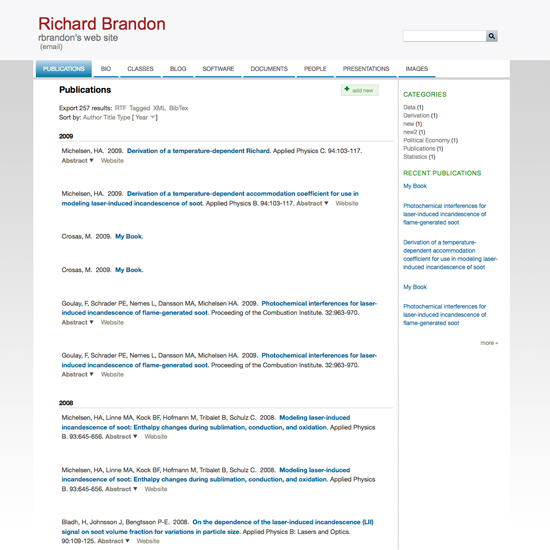
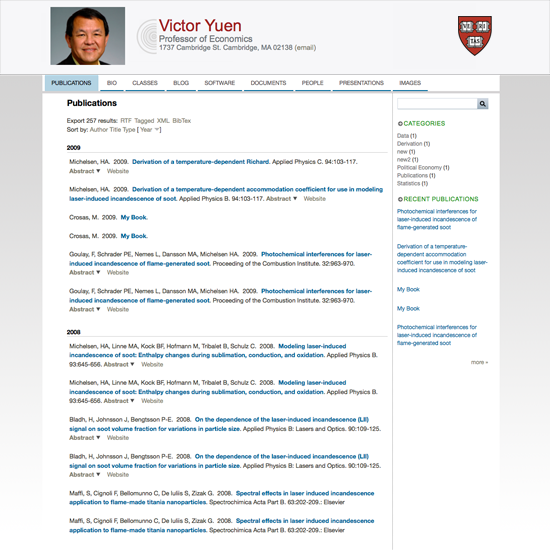
css bug fixes/tweaks

Changed region(s): [[0.0, 0.0, 1.0, 1.0], [0.8345, 0.0309, 0.9273, 0.0927], [0.8655, 0.6182, 0.8964, 0.68]]

diff --git a/sites/all/themes/openscholar/scholar_cleanblue/scholar-cleanblue.css b/sites/all/themes/openscholar/scholar_cleanblue/scholar-cleanblue.css
@@ -1,10 +1,13 @@
-
-
-body {
+body.header-main, body.header-main-right, body.header-main-left, body.header-left-main, body.header-left-main-right, body.header-left-right, body.header-right-main, body.header-right, body.header-left {
   color:#37352B;
   min-width: 980px;
-  background: url('images/bodyBg.png') repeat-x;
-  }
+  background: url('images/bodyBg.png') repeat-x scroll 0px 160px #f7f7f9;
+ 
+    }
+  
+ body.header-none {
+ 	background:url("images/bodyBg.png") repeat-x scroll 0px -89px #f7f7f9;
+ 	}
 
 /* TYPOGRAPHY*/
 
@@ -18,6 +21,11 @@ a:hover {
     color:#106599;
     
     }
+    
+.sidebar .content h1 a {color:#991122;}
+.sidebar .content h1 a:hover {color:#106599;text-decoration:none;}
+
+.sidebar .content h2 {margin-top: 0.2em;}
 
 h2, h3, h4 {
   margin-bottom: 0;
@@ -71,10 +79,10 @@ h3.title {
   
   #sidebar-first #block-vsite_menus-0 .content ul.menu {margin-left:12px;}
   #sidebar-first #block-vsite_menus-0 .content ul.menu li {list-style-image:url('images/mainNavLftIcon.gif');color:#106599;font-weight:bold;}
-  #sidebar-first #block-vsite_menus-0 .content ul.menu li  a {font-weight:bold;}
+  #sidebar-first #block-vsite_menus-0 .content ul.menu li  a {font-weight:bold;padding-left:5px;}
   
   #sidebar-second #block-vsite_menus-0 .content ul.menu {margin-left:20px;}
-  #sidebar-second #block-vsite_menus-0 .content ul.menu li {list-style-image:url('images/mainNavLftIcon.gif');color:#106599;font-weight:bold;}
+  #sidebar-second #block-vsite_menus-0 .content ul.menu li {list-style-image:url('images/mainNavLftIcon.gif');color:#106599;font-weight:bold;padding-bottom:10px;}
   #sidebar-second #block-vsite_menus-0 .content ul.menu li  a {font-weight:bold;font-size:12px;text-transform:uppercase;}
 
 p.copy {
@@ -85,9 +93,20 @@ p.copy {
     color:#106599;
 }
 
+.node, .biblio-entry {
+    clear: both;
+    margin-bottom: 0.1em;
+    padding: 0.5em 0.188em;
+    position: relative;
+}
+
 .field-content a {color:#106599;}
 
-#header-left #block-scholar-1 .content, #header-right #block-scholar-1 .content, #header-main #block-scholar-1 .content {height:84px;background:url('images/siteInfoBg.gif') no-repeat;background-position:left;padding-left:48px;}
+#header-left #block-scholar-1 .content, 
+#header-right #block-scholar-1 .content, 
+#header-main #block-scholar-1 .content {
+	height:84px;background:url('images/siteInfoBg.gif') no-repeat;background-position:left;padding-left:48px;margin-top: 20px;
+	}
 
 /* LAYOUT ELEMENTS */
 
@@ -100,18 +119,7 @@ background: #fff;
 
   }
 
-.sidebar-first #page {
-  background-position: -980px 0;
 
-  }
-
-.sidebar-second #page {
-  background-position: -1960px 0;
-  }
-
-.two-sidebars #page {
-  background-position: -2940px 0;
-  }
 
 .sidebar {
   font-size: 12px;
@@ -121,8 +129,11 @@ background: #fff;
 #sidebar-first,
 #header-left,
 #logo {
-  width: 172px;
+  width: 160px;
+  height:125px;
   }
+
+//#header-left, #header-right, #header-main {background: #f7f7f9;} 
 
 #sidebar-first,
 #header-left {
@@ -142,7 +153,7 @@ background: #fff;
 
 #header {
   background: #f7f7f9;
-  height: 124px;
+  height: 160px;
   }
 
 body.header-main-right #header,
@@ -200,8 +211,8 @@ body.one-sidebar #sidebar-first {
 /* HEADER ELEMENTS */
 
 #header .column {
-  padding-top: 20px;
-  //padding-bottom: 13px;
+  padding-top: 15px;
+
   }
 
 .header-main #header .hg-container,
@@ -275,13 +286,19 @@ body.one-sidebar #sidebar-first {
   }
 
 #navbar li a:hover,
-#navbar li a.active,
 #navbar li.active-trail a {
   background: url('images/mainNavHover.png') repeat-x;
   color: #FFF;
   text-decoration: none;
+}
 
-  }
+
+#navbar li a.active,
+#navbar li.active-trail a {
+  background: #b6d3e2;
+  color: #000;
+  text-decoration: none;
+}
 
 /*Footer */
 
